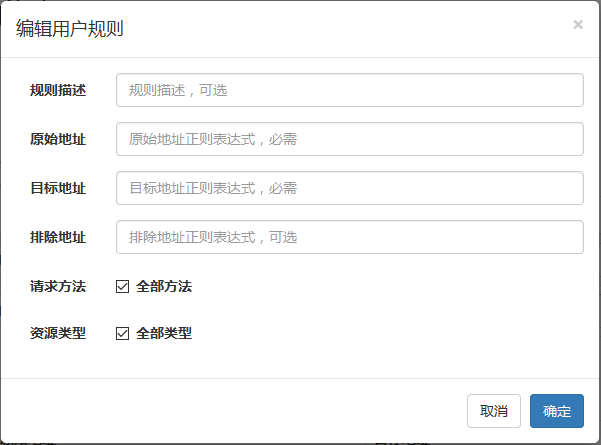
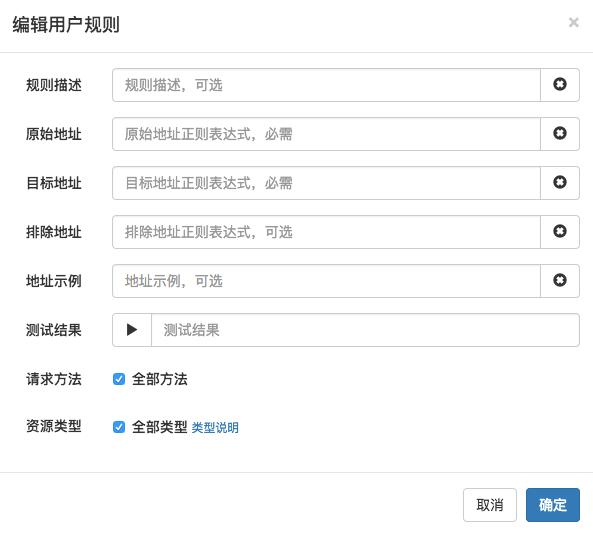
更新，界面更新和修改图片

diff --git a/src/options/options.html b/src/options/options.html
@@ -145,31 +145,56 @@
                     <div class="form-group">
                         <label for="txtDescription" class="col-sm-2 control-label">规则描述</label>
                         <div class="col-sm-10">
-                            <input type="text" class="form-control" id="txtDescription" placeholder="规则描述，可选">
+                            <div class="input-group">
+                                <input type="text" class="form-control" id="txtDescription" placeholder="规则描述，可选">
+                                <span class="input-group-btn">
+                                    <button class="btn btn-default remove"><i class="glyphicon glyphicon-remove-sign"></i></button>
+                                </span>
+                            </div>
                         </div>
                     </div>
                     <div class="form-group">
                         <label for="txtOrigin" class="col-sm-2 control-label">原始地址</label>
                         <div class="col-sm-10">
-                            <input type="text" class="form-control" id="txtOrigin" placeholder="原始地址正则表达式，必需">
+                            <div class="input-group">
+                                <input type="text" class="form-control" id="txtOrigin" placeholder="原始地址正则表达式，必需">
+                                <span class="input-group-btn">
+                                    <button class="btn btn-default remove"><i class="glyphicon glyphicon-remove-sign"></i></button>
+                                </span>
+                            </div>
                         </div>
                     </div>
                     <div class="form-group">
                         <label for="txtTarget" class="col-sm-2 control-label">目标地址</label>
                         <div class="col-sm-10">
-                            <input type="text" class="form-control" id="txtTarget" placeholder="目标地址正则表达式，必需">
+                            <div class="input-group">
+                                <input type="text" class="form-control" id="txtTarget" placeholder="目标地址正则表达式，必需">
+                                <span class="input-group-btn">
+                                    <button class="btn btn-default remove"><i class="glyphicon glyphicon-remove-sign"></i></button>
+                                </span>
+                            </div>
                         </div>
                     </div>
                     <div class="form-group">
                         <label for="txtExclude" class="col-sm-2 control-label">排除地址</label>
                         <div class="col-sm-10">
-                            <input type="text" class="form-control" id="txtExclude" placeholder="排除地址正则表达式，可选">
+                            <div class="input-group">
+                                <input type="text" class="form-control" id="txtExclude" placeholder="排除地址正则表达式，可选">
+                                <span class="input-group-btn">
+                                    <button class="btn btn-default remove"><i class="glyphicon glyphicon-remove-sign"></i></button>
+                                </span>
+                            </div>
                         </div>
                     </div>
                     <div class="form-group">
                         <label class="col-sm-2 control-label">地址示例</label>
                         <div class="col-sm-10">
-                            <input type="text" class="form-control" id="txtExample" placeholder="地址示例，可选">
+                            <div class="input-group">
+                                <input type="text" class="form-control" id="txtExample" placeholder="地址示例，可选">
+                                <span class="input-group-btn">
+                                    <button class="btn btn-default remove"><i class="glyphicon glyphicon-remove-sign"></i></button>
+                                </span>
+                            </div>
                         </div>
                     </div>
                     <div class="form-group">

diff --git a/src/options/options.js b/src/options/options.js
@@ -135,7 +135,12 @@ function createRuleRow(rule) {
                     moveDown($(this).closest("tr"));
                 })
             )
-        )
+        ).dblclick(function () {
+            var $tr = $(this);
+            var trIdx = $tr.index();
+            editingRule = storage.customRules[trIdx];
+            showEditCustomRuleModal(editingRule);
+        })
     );
 }
 
@@ -418,6 +423,12 @@ function showEditCustomRuleModal(rule) {
     }
     $("#modalEditUserRule").modal("show");
 }
+
+/* Remove input text */
+$("button.remove").click(function () {
+    var $input = $(this).closest("div").find(":text").first();
+    $input.val("");
+});
 
 /* Test rule */
 $("#btnTest").click(function () {
